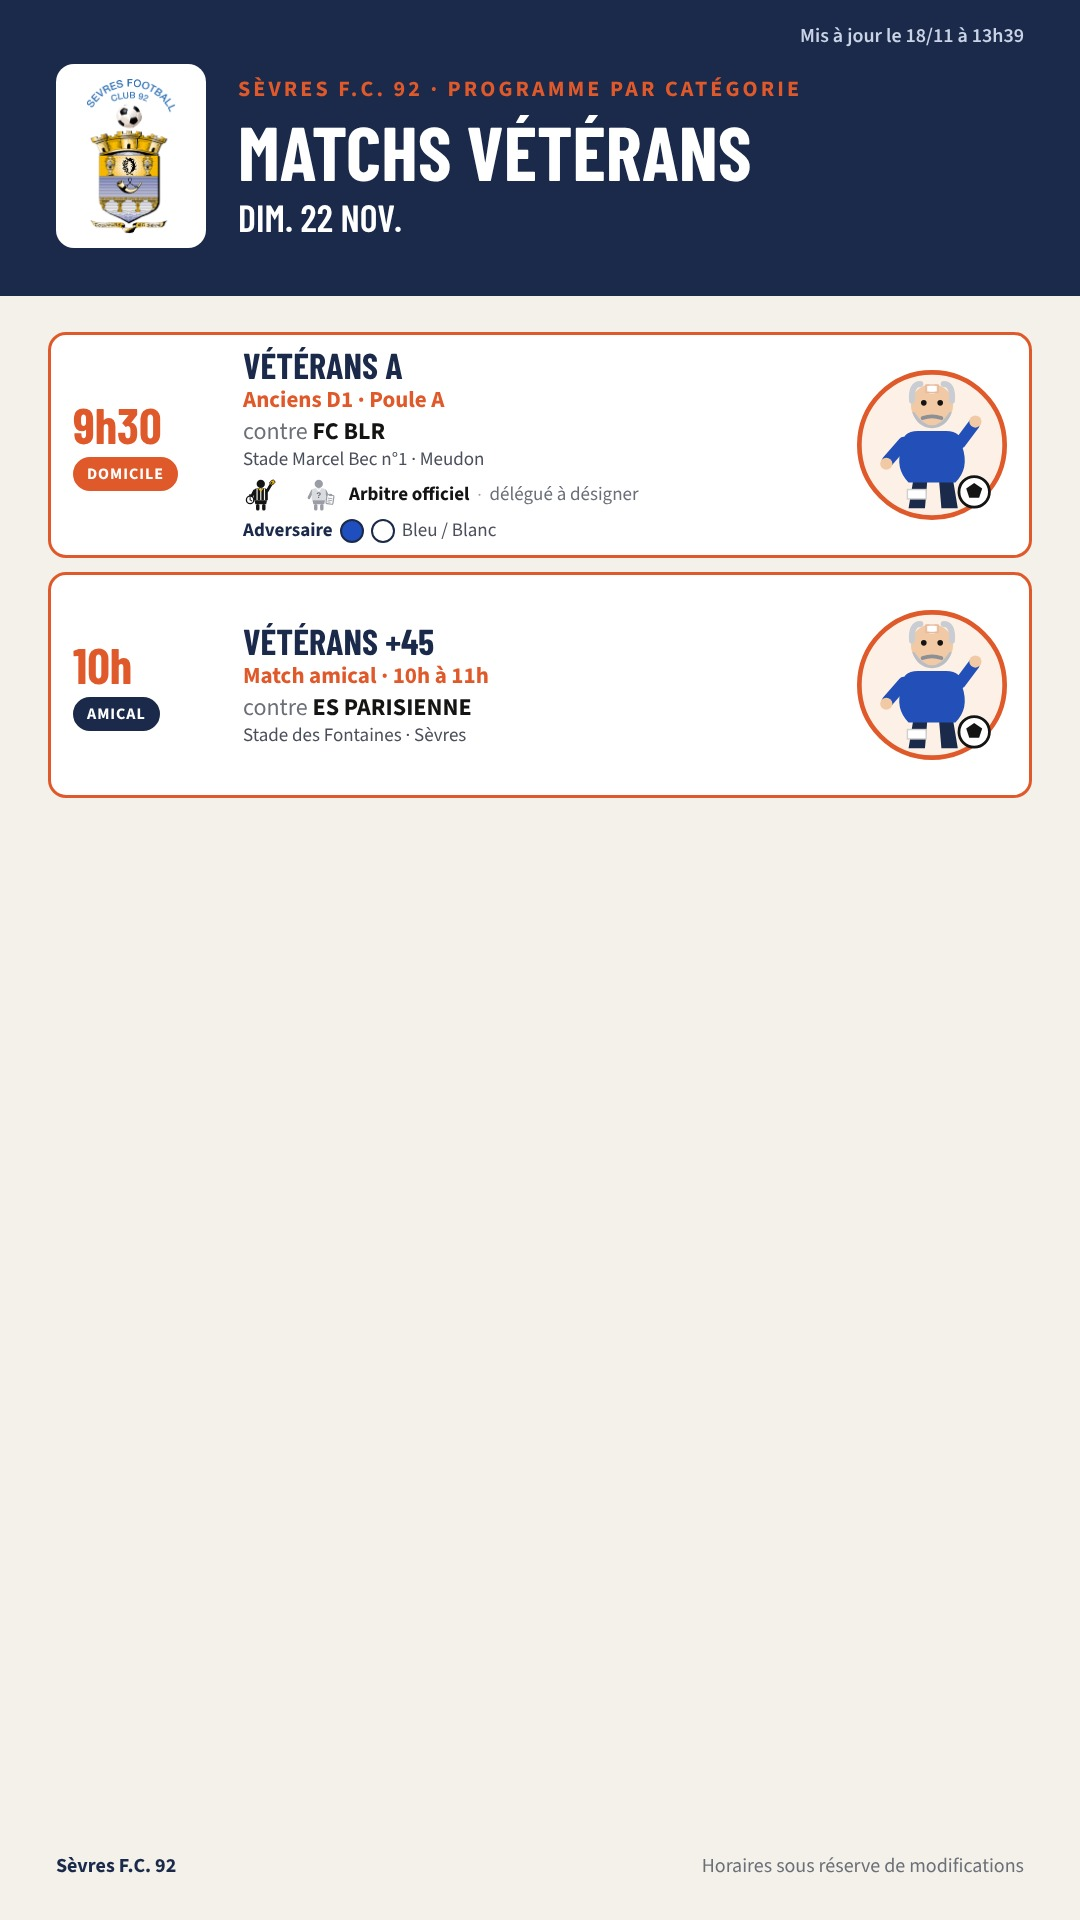
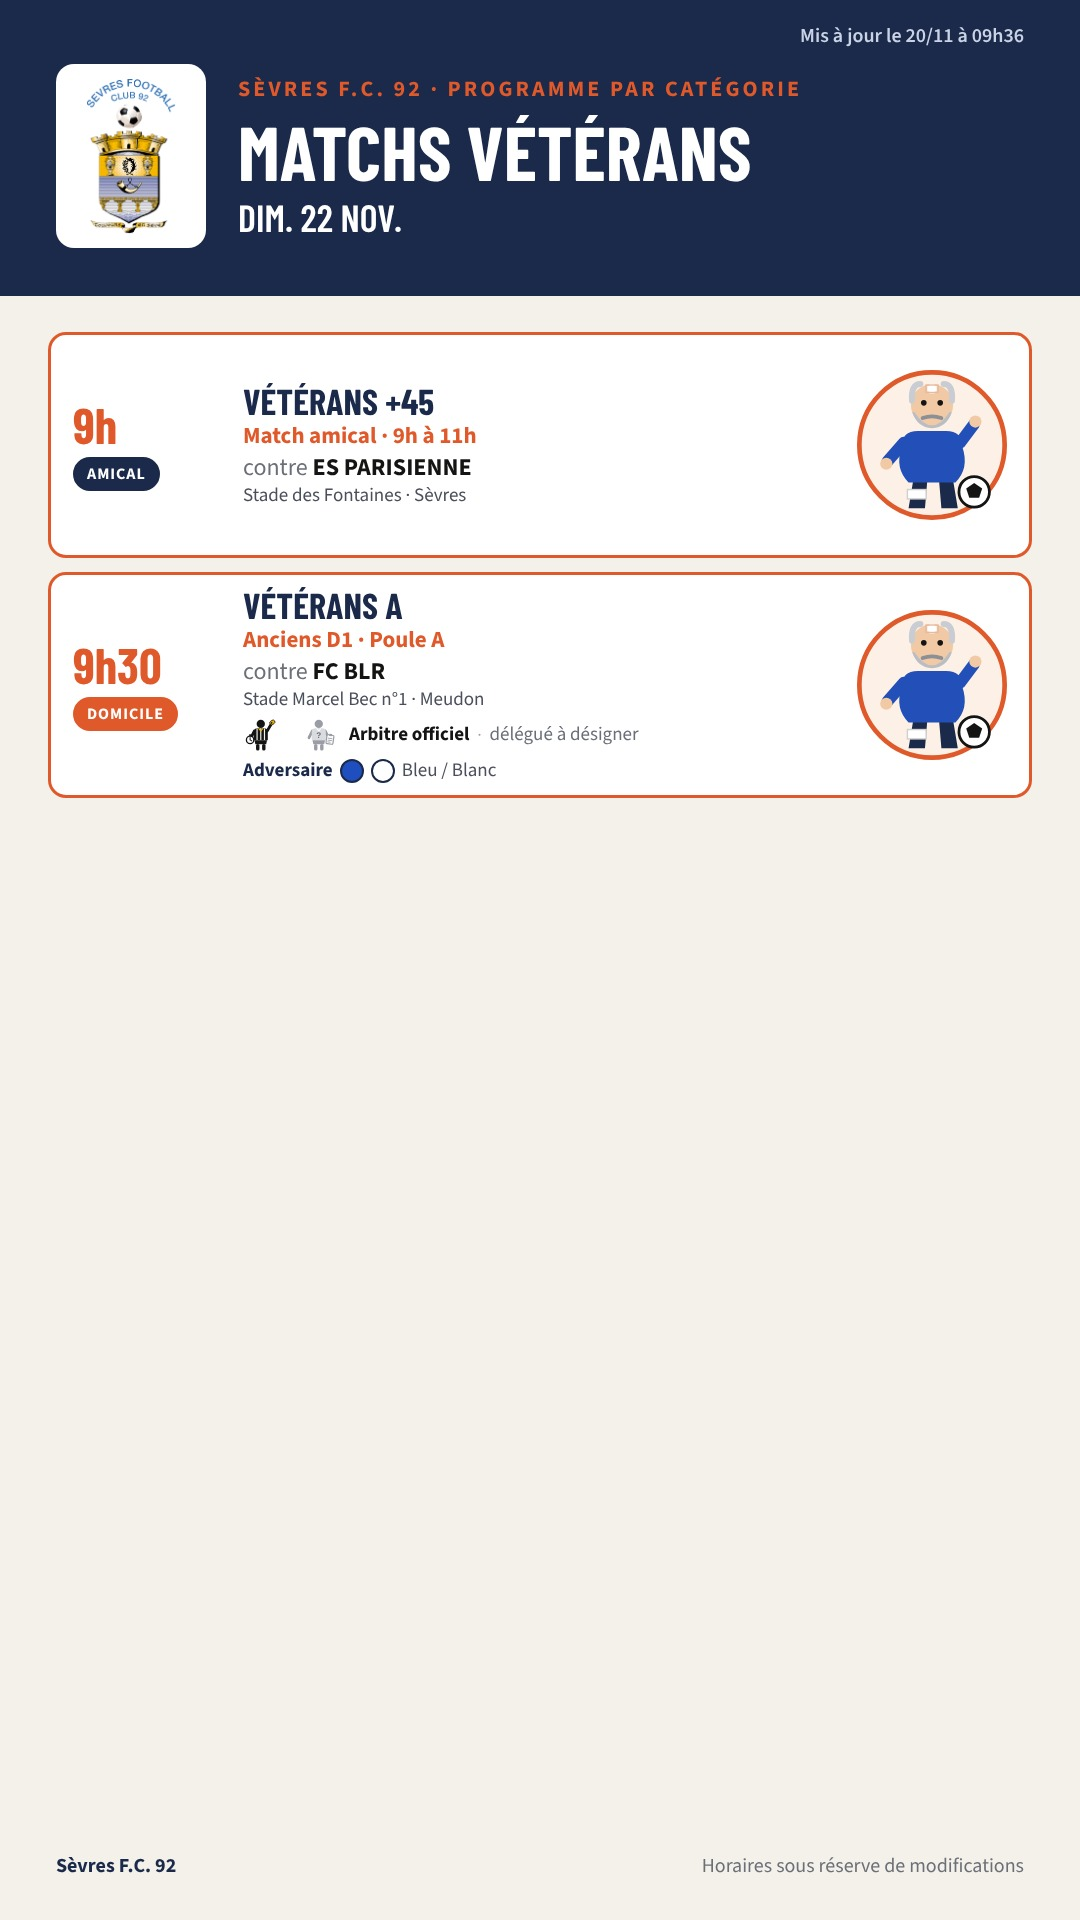
Affiches 21-23 nov. : relevé Footclubs/SportEasy du 20/11 (amicaux, Séniors F à 16h, officiels), samedi en 3 affiches
Claude-Session: https://claude.ai/code/session_01Ce6bnAAqFwh5XpUpKRCk2S

diff --git a/index.html b/index.html
@@ -61,7 +61,7 @@ footer .wrap{padding-block:16px 28px}
 <header><div class="wrap">
   <div class="brand">
     <img src="logo.png" alt="Logo Sèvres F.C. 92">
-    <div><h1>Le week-end <em>du Sèvres F.C. 92</em></h1><span class="maj"><!--MAJ-->Mis à jour le 18/11 à 13h41<!--/MAJ--></span><p>Tous les matchs du club, à domicile et à l'extérieur</p></div>
+    <div><h1>Le week-end <em>du Sèvres F.C. 92</em></h1><span class="maj"><!--MAJ-->Mis à jour le 20/11 à 9h38<!--/MAJ--></span><p>Tous les matchs du club, à domicile et à l'extérieur</p></div>
   </div>
   <div class="weeks" id="weeks" role="group" aria-label="Choisir le week-end"></div>
 </div></header>
@@ -84,7 +84,7 @@ footer .wrap{padding-block:16px 28px}
 </div>
 
 <script>
-const WEEKS=[{"id":"2026-10-17","lab":"17 – 18 oct.","fin":"2026-10-18","tous":[["Samedi 17","img/2026-10-17-tous-samedi.jpg"],["Dimanche 18 et lundi 19","img/2026-10-17-tous-dimanche-lundi.jpg"]],"stades":[["fontaines","Samedi 17","img/2026-10-17-fontaines-samedi.jpg"],["fontaines","Dimanche 18","img/2026-10-17-fontaines-dimanche.jpg"]],"cat":[["U12 et U13","img/2026-10-17-u12-u13.jpg"],["Féminines","img/2026-10-17-feminines.jpg"],["U14, U15 et U16","img/2026-10-17-u14-u15-u16.jpg"],["U18","img/2026-10-17-u18.jpg"],["Séniors et U20","img/2026-10-17-seniors-u20.jpg"],["Vétérans","img/2026-10-17-veterans.jpg"],["Foot loisirs","img/2026-10-17-foot-loisirs.jpg"]],"amical":[]},{"id":"2026-10-31","lab":"31 oct. – 2 nov.","fin":"2026-11-02","tous":[["Samedi 31","img/2026-10-31-tous-samedi.jpg"],["Dimanche 1er et lundi 2","img/2026-10-31-tous-dimanche-lundi.jpg"]],"stades":[["fontaines","Samedi 31","img/2026-10-31-fontaines-samedi.jpg"],["fontaines","Dimanche 1er et lundi 2","img/2026-10-31-fontaines-dimanche-lundi.jpg"],["marcel-bec","Lundi 2","img/2026-10-31-marcel-bec-lundi.jpg"]],"cat":[["Féminines","img/2026-10-31-feminines.jpg"],["U18","img/2026-10-31-u18.jpg"],["Séniors et U20","img/2026-10-31-seniors-u20.jpg"],["U15 et U16","img/2026-10-31-u15-u16.jpg"],["Vétérans","img/2026-10-31-veterans.jpg"],["Foot loisirs","img/2026-10-31-foot-loisirs.jpg"]],"amical":[["Match amical à trouver","img/2026-10-31-match-amical-a-trouver.jpg"]]},{"id":"2026-11-07","lab":"7 – 9 nov.","fin":"2026-11-09","tous":[["Samedi matin","img/2026-11-07-samedi-matin.jpg"],["Samedi midi","img/2026-11-07-samedi-midi.jpg"],["Samedi après-midi","img/2026-11-07-samedi-apres-midi.jpg"],["Dimanche 8 et lundi 9","img/2026-11-07-dimanche-lundi.jpg"]],"stades":[["fontaines","Samedi 7","img/2026-11-07-fontaines-samedi.jpg"],["wagner","Samedi 7","img/2026-11-07-wagner-samedi.jpg"],["fontaines","Dimanche 8 et lundi 9","img/2026-11-07-fontaines-dimanche-lundi.jpg"],["wagner","Dimanche 8","img/2026-11-07-wagner-dimanche.jpg"]],"cat":[["U10 et U11","img/2026-11-07-u10-u11.jpg"],["U12 et U13","img/2026-11-07-u12-u13.jpg"],["Féminines","img/2026-11-07-feminines.jpg"],["U14, U15 et U16","img/2026-11-07-u14-u15-u16.jpg"],["U18","img/2026-11-07-u18.jpg"],["Séniors et U20","img/2026-11-07-seniors-u20.jpg"],["Vétérans","img/2026-11-07-veterans.jpg"],["Foot loisirs","img/2026-11-07-foot-loisirs.jpg"],["Séances du week-end","img/2026-11-07-entrainements-seances.jpg"]],"amical":[["Match amical à trouver","img/2026-11-07-match-amical-a-trouver.jpg"]]},{"id":"2026-11-14","lab":"14 – 16 nov.","fin":"2026-11-16","tous":[["Samedi matin","img/2026-11-14-samedi-matin.jpg"],["Samedi midi","img/2026-11-14-samedi-midi.jpg"],["Samedi après-midi","img/2026-11-14-samedi-apres-midi.jpg"],["Dimanche 15 et lundi 16","img/2026-11-14-dimanche-lundi.jpg"]],"stades":[["fontaines","Samedi 14","img/2026-11-14-fontaines-samedi.jpg"],["wagner","Samedi 14","img/2026-11-14-wagner-samedi.jpg"],["fontaines","Dimanche 15 et lundi 16","img/2026-11-14-fontaines-dimanche-lundi.jpg"],["wagner","Dimanche 15","img/2026-11-14-wagner-dimanche.jpg"],["marcel-bec","Samedi 14 lundi 16","img/2026-11-14-marcel-bec-samedi-lundi.jpg"]],"cat":[["U10 et U11","img/2026-11-14-u10-u11.jpg"],["U12 et U13","img/2026-11-14-u12-u13.jpg"],["Féminines","img/2026-11-14-feminines.jpg"],["U14, U15 et U16","img/2026-11-14-u14-u15-u16.jpg"],["U18","img/2026-11-14-u18.jpg"],["Séniors et U20","img/2026-11-14-seniors-u20.jpg"],["Vétérans","img/2026-11-14-veterans.jpg"],["Foot loisirs","img/2026-11-14-foot-loisirs.jpg"],["Séances du week-end","img/2026-11-14-entrainements-seances.jpg"]],"amical":[["Match amical à trouver","img/2026-11-14-match-amical-a-trouver.jpg"]]},{"id":"2026-11-21","lab":"21 – 23 nov.","fin":"2026-11-23","tous":[["Samedi 21","img/2026-11-21-samedi.jpg"],["Dimanche 22 et lundi 23","img/2026-11-21-dimanche-lundi.jpg"]],"stades":[["fontaines","Samedi 21","img/2026-11-21-fontaines-samedi.jpg"],["wagner","Samedi 21","img/2026-11-21-wagner-samedi.jpg"],["fontaines","Dimanche 22 et lundi 23","img/2026-11-21-fontaines-dimanche-lundi.jpg"],["wagner","Dimanche 22","img/2026-11-21-wagner-dimanche.jpg"],["marcel-bec","Dimanche 22","img/2026-11-21-marcel-bec-dimanche.jpg"]],"cat":[["U10 et U11","img/2026-11-21-u10-u11.jpg"],["U12 et U13","img/2026-11-21-u12-u13.jpg"],["Féminines","img/2026-11-21-feminines.jpg"],["U14, U15 et U16","img/2026-11-21-u14-u15-u16.jpg"],["U18","img/2026-11-21-u18.jpg"],["Séniors et U20","img/2026-11-21-seniors-u20.jpg"],["Vétérans","img/2026-11-21-veterans.jpg"],["Foot loisirs","img/2026-11-21-foot-loisirs.jpg"],["Séances du week-end","img/2026-11-21-entrainements-seances.jpg"]],"amical":[["Match amical à trouver","img/2026-11-21-match-amical-a-trouver.jpg"]]}];
+const WEEKS=[{"id":"2026-10-17","lab":"17 – 18 oct.","fin":"2026-10-18","tous":[["Samedi 17","img/2026-10-17-tous-samedi.jpg"],["Dimanche 18 et lundi 19","img/2026-10-17-tous-dimanche-lundi.jpg"]],"stades":[["fontaines","Samedi 17","img/2026-10-17-fontaines-samedi.jpg"],["fontaines","Dimanche 18","img/2026-10-17-fontaines-dimanche.jpg"]],"cat":[["U12 et U13","img/2026-10-17-u12-u13.jpg"],["Féminines","img/2026-10-17-feminines.jpg"],["U14, U15 et U16","img/2026-10-17-u14-u15-u16.jpg"],["U18","img/2026-10-17-u18.jpg"],["Séniors et U20","img/2026-10-17-seniors-u20.jpg"],["Vétérans","img/2026-10-17-veterans.jpg"],["Foot loisirs","img/2026-10-17-foot-loisirs.jpg"]],"amical":[]},{"id":"2026-10-31","lab":"31 oct. – 2 nov.","fin":"2026-11-02","tous":[["Samedi 31","img/2026-10-31-tous-samedi.jpg"],["Dimanche 1er et lundi 2","img/2026-10-31-tous-dimanche-lundi.jpg"]],"stades":[["fontaines","Samedi 31","img/2026-10-31-fontaines-samedi.jpg"],["fontaines","Dimanche 1er et lundi 2","img/2026-10-31-fontaines-dimanche-lundi.jpg"],["marcel-bec","Lundi 2","img/2026-10-31-marcel-bec-lundi.jpg"]],"cat":[["Féminines","img/2026-10-31-feminines.jpg"],["U18","img/2026-10-31-u18.jpg"],["Séniors et U20","img/2026-10-31-seniors-u20.jpg"],["U15 et U16","img/2026-10-31-u15-u16.jpg"],["Vétérans","img/2026-10-31-veterans.jpg"],["Foot loisirs","img/2026-10-31-foot-loisirs.jpg"]],"amical":[["Match amical à trouver","img/2026-10-31-match-amical-a-trouver.jpg"]]},{"id":"2026-11-07","lab":"7 – 9 nov.","fin":"2026-11-09","tous":[["Samedi matin","img/2026-11-07-samedi-matin.jpg"],["Samedi midi","img/2026-11-07-samedi-midi.jpg"],["Samedi après-midi","img/2026-11-07-samedi-apres-midi.jpg"],["Dimanche 8 et lundi 9","img/2026-11-07-dimanche-lundi.jpg"]],"stades":[["fontaines","Samedi 7","img/2026-11-07-fontaines-samedi.jpg"],["wagner","Samedi 7","img/2026-11-07-wagner-samedi.jpg"],["fontaines","Dimanche 8 et lundi 9","img/2026-11-07-fontaines-dimanche-lundi.jpg"],["wagner","Dimanche 8","img/2026-11-07-wagner-dimanche.jpg"]],"cat":[["U10 et U11","img/2026-11-07-u10-u11.jpg"],["U12 et U13","img/2026-11-07-u12-u13.jpg"],["Féminines","img/2026-11-07-feminines.jpg"],["U14, U15 et U16","img/2026-11-07-u14-u15-u16.jpg"],["U18","img/2026-11-07-u18.jpg"],["Séniors et U20","img/2026-11-07-seniors-u20.jpg"],["Vétérans","img/2026-11-07-veterans.jpg"],["Foot loisirs","img/2026-11-07-foot-loisirs.jpg"],["Séances du week-end","img/2026-11-07-entrainements-seances.jpg"]],"amical":[["Match amical à trouver","img/2026-11-07-match-amical-a-trouver.jpg"]]},{"id":"2026-11-14","lab":"14 – 16 nov.","fin":"2026-11-16","tous":[["Samedi matin","img/2026-11-14-samedi-matin.jpg"],["Samedi midi","img/2026-11-14-samedi-midi.jpg"],["Samedi après-midi","img/2026-11-14-samedi-apres-midi.jpg"],["Dimanche 15 et lundi 16","img/2026-11-14-dimanche-lundi.jpg"]],"stades":[["fontaines","Samedi 14","img/2026-11-14-fontaines-samedi.jpg"],["wagner","Samedi 14","img/2026-11-14-wagner-samedi.jpg"],["fontaines","Dimanche 15 et lundi 16","img/2026-11-14-fontaines-dimanche-lundi.jpg"],["wagner","Dimanche 15","img/2026-11-14-wagner-dimanche.jpg"],["marcel-bec","Samedi 14 lundi 16","img/2026-11-14-marcel-bec-samedi-lundi.jpg"]],"cat":[["U10 et U11","img/2026-11-14-u10-u11.jpg"],["U12 et U13","img/2026-11-14-u12-u13.jpg"],["Féminines","img/2026-11-14-feminines.jpg"],["U14, U15 et U16","img/2026-11-14-u14-u15-u16.jpg"],["U18","img/2026-11-14-u18.jpg"],["Séniors et U20","img/2026-11-14-seniors-u20.jpg"],["Vétérans","img/2026-11-14-veterans.jpg"],["Foot loisirs","img/2026-11-14-foot-loisirs.jpg"],["Séances du week-end","img/2026-11-14-entrainements-seances.jpg"]],"amical":[["Match amical à trouver","img/2026-11-14-match-amical-a-trouver.jpg"]]},{"id":"2026-11-21","lab":"21 – 23 nov.","fin":"2026-11-23","tous":[["Samedi matin","img/2026-11-21-samedi-matin.jpg"],["Samedi midi","img/2026-11-21-samedi-midi.jpg"],["Samedi après-midi","img/2026-11-21-samedi-apres-midi.jpg"],["Dimanche 22 et lundi 23","img/2026-11-21-dimanche-lundi.jpg"]],"stades":[["fontaines","Samedi 21","img/2026-11-21-fontaines-samedi.jpg"],["wagner","Samedi 21","img/2026-11-21-wagner-samedi.jpg"],["fontaines","Dimanche 22 et lundi 23","img/2026-11-21-fontaines-dimanche-lundi.jpg"],["wagner","Dimanche 22","img/2026-11-21-wagner-dimanche.jpg"],["marcel-bec","Dimanche 22","img/2026-11-21-marcel-bec-dimanche.jpg"]],"cat":[["U10 et U11","img/2026-11-21-u10-u11.jpg"],["U12 et U13","img/2026-11-21-u12-u13.jpg"],["Féminines","img/2026-11-21-feminines.jpg"],["U14, U15 et U16","img/2026-11-21-u14-u15-u16.jpg"],["U18","img/2026-11-21-u18.jpg"],["Séniors et U20","img/2026-11-21-seniors-u20.jpg"],["Vétérans","img/2026-11-21-veterans.jpg"],["Foot loisirs","img/2026-11-21-foot-loisirs.jpg"],["Séances du week-end","img/2026-11-21-entrainements-seances.jpg"]],"amical":[["Match amical à trouver","img/2026-11-21-match-amical-a-trouver.jpg"]]}];
 const STADES={fontaines:['Stade des Fontaines','Sèvres'],wagner:['Stade Jean Wagner','Sèvres'],'marcel-bec':['Stade Marcel Bec','Meudon']};
 const VIEWS=[['tous','Tous les matchs'],['stades','Par stade'],['categories','Par catégorie'],['amical','Match amical']];
 const today=new Date().toISOString().slice(0,10);
